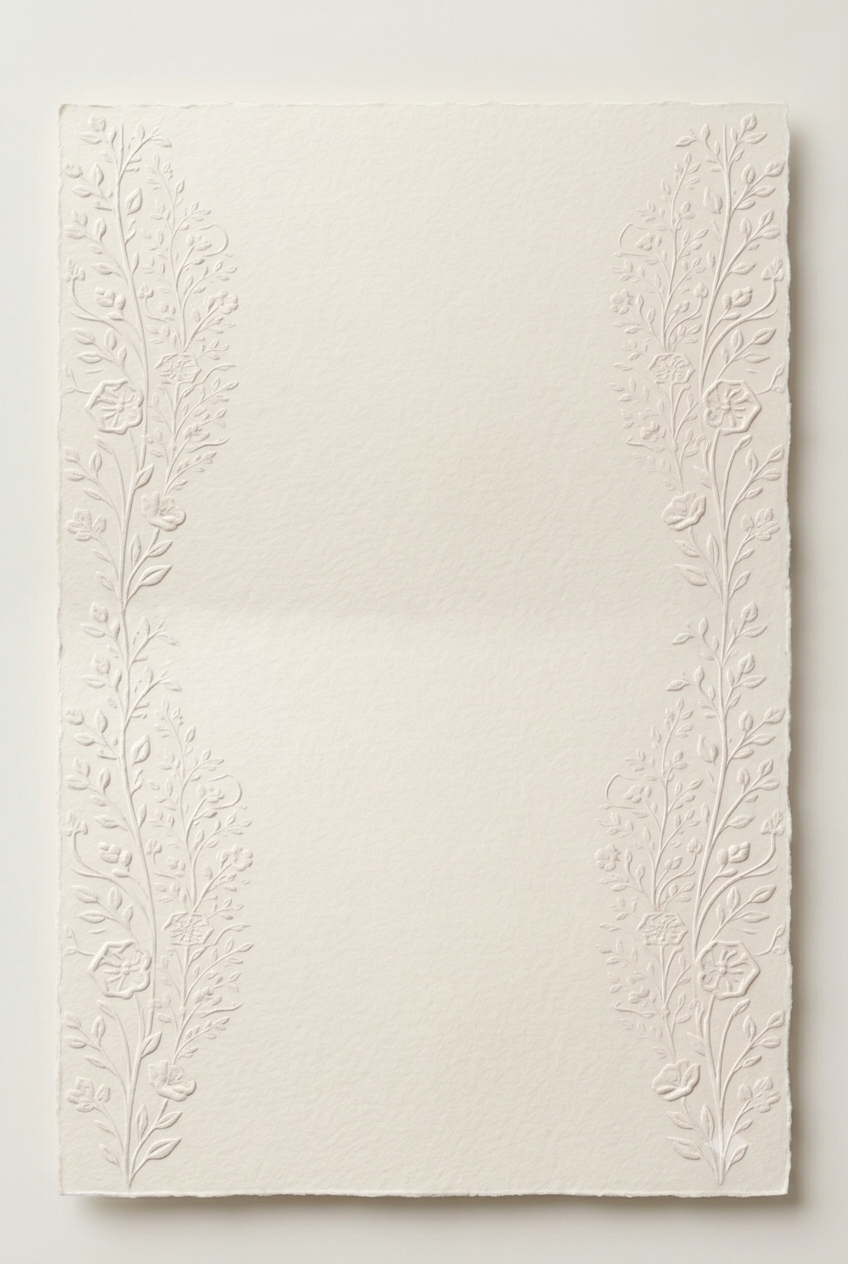
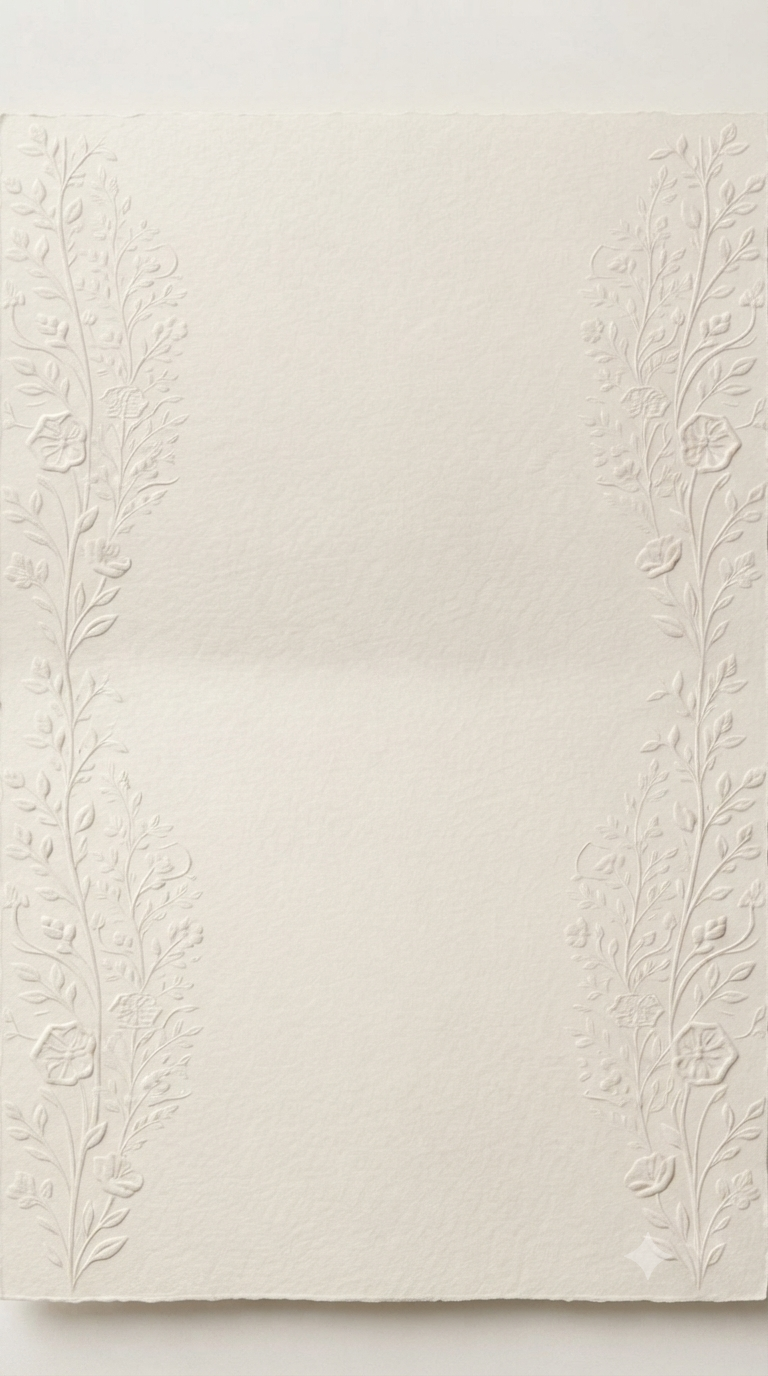
v2 rectif cart background

diff --git a/src/invitation/sections/VenueSection.tsx b/src/invitation/sections/VenueSection.tsx
@@ -52,10 +52,10 @@ export function VenueSection() {
           <div className={`info-reveal${inClass}`} style={{ animationDelay: `${BLOCKS_DELAY}ms` }}>
             <div className="flex items-center gap-1.5">
               <LocationIcon
-                className={`info-icon-glow${inClass} h-4 w-4 shrink-0 text-accent-strong`}
+                className={`info-icon-glow${inClass} h-4 w-4 shrink-0 font-semibold text-accent-strong`}
                 style={{ animationDelay: `${BLOCKS_DELAY}ms` }}
               />
-              <span className="font-sans text-label-2xs uppercase tracking-wide text-accent-strong">{lieu.label}</span>
+              <span className="font-sans text-label-2xs uppercase tracking-wide font-semibold text-accent-strong">{lieu.label}</span>
             </div>
             <p className="mt-1 font-accent text-sm leading-snug text-ink">{lieu.value}</p>
           </div>
@@ -71,20 +71,20 @@ export function VenueSection() {
                 <div>
                   <div className="flex items-center gap-1.5">
                     <CalendarIcon
-                      className={`info-icon-glow${inClass} h-4 w-4 shrink-0 text-accent-strong`}
+                      className={`info-icon-glow${inClass} h-4 w-4 shrink-0 font-semibold text-accent-strong`}
                       style={{ animationDelay: `${BLOCKS_DELAY + BLOCKS_STAGGER}ms` }}
                     />
-                    <span className="font-sans text-label-2xs uppercase tracking-wide text-accent-strong">{date.label}</span>
+                    <span className="font-sans text-label-2xs uppercase tracking-wide font-semibold text-accent-strong">{date.label}</span>
                   </div>
                   <p className="mt-1 font-accent text-sm leading-snug text-ink">{date.value}</p>
                 </div>
                 <div className="info-datetime-divider">
                   <div className="flex items-center gap-1.5">
                     <ClockIcon
-                      className={`info-icon-glow${inClass} h-4 w-4 shrink-0 text-accent-strong`}
+                      className={`info-icon-glow${inClass} h-4 w-4 shrink-0 font-semibold text-accent-strong`}
                       style={{ animationDelay: `${BLOCKS_DELAY + BLOCKS_STAGGER}ms` }}
                     />
-                    <span className="font-sans text-label-2xs uppercase tracking-wide text-accent-strong">{heure.label}</span>
+                    <span className="font-sans text-label-2xs uppercase tracking-wide font-semibold text-accent-strong">{heure.label}</span>
                   </div>
                   <p className="mt-1 font-accent text-sm leading-snug text-ink">{heure.value}</p>
                 </div>
@@ -102,25 +102,9 @@ export function VenueSection() {
                 className={`info-icon-glow${inClass} h-4 w-4 shrink-0 text-accent-strong`}
                 style={{ animationDelay: `${BLOCKS_DELAY + 2 * BLOCKS_STAGGER}ms` }}
               />
-              <span className="font-sans text-label-2xs uppercase tracking-wide text-accent-strong">{dressCode.label}</span>
+              <span className="font-sans text-label-2xs uppercase tracking-wide font-semibold text-accent-strong">{dressCode.label}</span>
             </div>
             <p className="mt-1 font-accent text-sm leading-snug text-ink">{dressCode.value}</p>
-          </div>
-
-          {/* Dîner — pleine largeur : phrase longue, doit pouvoir passer à la
-              ligne sans jamais toucher les floraux latéraux. */}
-          <div
-            className={`info-reveal${inClass}`}
-            style={{ animationDelay: `${BLOCKS_DELAY + 3 * BLOCKS_STAGGER}ms` }}
-          >
-            <div className="flex items-center gap-1.5">
-              <DinnerIcon
-                className={`info-icon-glow${inClass} h-4 w-4 shrink-0 text-accent-strong`}
-                style={{ animationDelay: `${BLOCKS_DELAY + 3 * BLOCKS_STAGGER}ms` }}
-              />
-              <span className="font-sans text-label-2xs uppercase tracking-wide text-accent-strong">{diner.label}</span>
-            </div>
-            <p className="mt-1 font-accent text-sm leading-snug text-ink">{diner.value}</p>
           </div>
 
           {/* Soirée */}
@@ -133,7 +117,7 @@ export function VenueSection() {
                 className={`info-icon-glow${inClass} h-4 w-4 shrink-0 text-accent-strong`}
                 style={{ animationDelay: `${BLOCKS_DELAY + 4 * BLOCKS_STAGGER}ms` }}
               />
-              <span className="font-sans text-label-2xs uppercase tracking-wide text-accent-strong">{soiree.label}</span>
+              <span className="font-sans text-label-2xs uppercase tracking-wide font-semibold text-accent-strong">{soiree.label}</span>
             </div>
             <p className="mt-1 font-accent text-sm leading-snug text-ink">{soiree.value}</p>
           </div>

diff --git a/src/invitation/sections/PhotoSection.tsx b/src/invitation/sections/PhotoSection.tsx
@@ -37,16 +37,12 @@ export function PhotoSection() {
     <PaperCard>
       <div ref={ref} className="flex flex-col items-center" style={{ width: '100%', boxSizing: 'border-box' }}>
 
-        {/* Photo — élément visuel principal de la carte. PaperCard réserve
-            px-[20%] py-[7%] (zone de sécurité texte) sur son conteneur ; la
-            photo en sort volontairement pour rester grande :
-            - largeur : 166.667% de la largeur de contenu disponible moins
-              24px — une identité qui annule exactement le padding horizontal
-              en pourcentage du parent (100% - 2×20% = 60% de contenu ; 60% ×
-              166.667% = 100% de la carte), quelle que soit la largeur réelle
-              de la carte, pour ne laisser qu'une marge fixe de 12px de chaque
-              côté par rapport aux fleurs embossées.
-            - marge supérieure : même principe pour le padding vertical.
+        {/* Photo — élément visuel principal de la carte. Largeur : 100% du
+            conteneur de contenu (même colonne que le verset/la traduction
+            ci-dessous, à l'intérieur de la zone sécurisée px-[20%] de
+            PaperCard) — la photo s'arrête au même niveau que le reste du
+            texte, jamais un débordement dans la zone florale.
+            - marge supérieure : compense le padding vertical du parent.
               PaperCard applique déjà 7% (soit 11.667% de notre largeur de
               contenu, puisque celle-ci vaut 60% de la largeur de la carte) ;
               `calc(-11.667% + clamp(20px, 5vw, 28px))` annule exactement
@@ -71,7 +67,7 @@ export function PhotoSection() {
           }
           transition={reducedMotion ? REDUCED_TRANSITION : { duration: PHOTO_DURATION, ease: EASE }}
           style={{
-            width: 'calc(166.667% - 24px)',
+            width: '100%',
             marginTop: 'calc(-11.667% + clamp(20px, 5vw, 28px))',
             display: 'block',
             borderRadius: '24px',
@@ -106,9 +102,8 @@ export function PhotoSection() {
           className="font-arabic text-center"
           style={{
             fontSize: 'clamp(1.025rem, 3.6vw, 1.205rem)',
-            lineHeight: 2.1,
+            lineHeight: 1.8,
             color: 'var(--color-ink)',
-            maxWidth: '90%',
             letterSpacing: '0.025em',
             marginTop: 16,
           }}
@@ -119,7 +114,7 @@ export function PhotoSection() {
         {/* Traduction française — statique. */}
         <p
           className="font-accent italic text-text-muted text-center"
-          style={{ fontSize: '0.9rem', lineHeight: 1.95, maxWidth: '86%', marginTop: 12 }}
+          style={{ fontSize: '0.9rem', lineHeight: 1.3, maxWidth: '86%', marginTop: 12 }}
         >
           « Et parmi Ses signes, Il a créé de vous, pour vous, des épouses afin que vous trouviez auprès d'elles la tranquillité. Et Il a mis entre vous affection et miséricorde. »
         </p>
@@ -133,7 +128,7 @@ export function PhotoSection() {
           Sourate Ar-Rûm (30:21)
         </span>
 
-        <CardDivider className="shrink-0 mt-4.5" />
+        <CardDivider className="shrink-0" />
       </div>
     </PaperCard>
   )

diff --git a/src/invitation/sections/TributeSection.tsx b/src/invitation/sections/TributeSection.tsx
@@ -26,7 +26,7 @@ export function TributeSection() {
   return (
     <PaperCard>
       <div
-        className="flex flex-col items-center gap-2.5 text-center"
+        className="flex flex-col items-center gap-1 text-center"
         style={{ boxSizing: 'border-box', paddingInline: '4px' }}
       >
         <CardSubtitle className={`trib-reveal${inClass}`}>Hommage</CardSubtitle>
@@ -89,7 +89,7 @@ export function TributeSection() {
             des lignes harmonieuses, jamais justifié. */}
         <div
           className={`trib-reveal${inClass}`}
-          style={{ animationDelay: `${PARAGRAPH_DELAY}ms`, marginTop: 18 }}
+          style={{ animationDelay: `${PARAGRAPH_DELAY}ms`, marginTop: 12 }}
         >
           <p
             className="font-accent italic font-medium text-ink-800"
@@ -115,9 +115,8 @@ export function TributeSection() {
             className="font-arabic"
             style={{
               fontSize: 'clamp(1.025rem, 3.6vw, 1.205rem)',
-              lineHeight: 2.1,
+              lineHeight: 1.5,
               color: 'var(--color-ink)',
-              maxWidth: '90%',
               letterSpacing: '0.025em',
               margin: '0 auto',
             }}
@@ -145,7 +144,7 @@ export function TributeSection() {
             conservée après la suppression de l'invocation finale. */}
         <span
           className={`trib-reveal${inClass} font-accent text-sm text-divider`}
-          style={{ animationDelay: `${END_ORNAMENT_DELAY}ms`, marginTop: 18 }}
+          style={{ animationDelay: `${END_ORNAMENT_DELAY}ms`, marginTop: 2 }}
           aria-hidden="true"
         >
           &#10022;

diff --git a/src/invitation/sections/CoverSection.tsx b/src/invitation/sections/CoverSection.tsx
@@ -272,7 +272,7 @@ export function CoverSection({ revealReady = false, onRevealComplete }: CoverSec
             {/* 2. Formule d'invitation — casse normale, douce, jamais de
                 capitales trackées (réservées aux labels UI, voir typography.css) */}
             <RevealItem index={1} active={revealReady} reducedMotion={reducedMotion}>
-              <p className="font-accent text-dusk-sky-text" style={{ fontSize: 'clamp(0.95rem, 3.4vw, 1.05rem)', maxWidth: '85%' }}>
+              <p className="font-semibold font-accent text-dusk-sky-text" style={{ fontSize: 'clamp(0.95rem, 3.4vw, 1.05rem)', maxWidth: '85%' }}>
                 Vous êtes invité(e)s au mariage de
               </p>
             </RevealItem>
@@ -300,7 +300,7 @@ export function CoverSection({ revealReady = false, onRevealComplete }: CoverSec
             {/* 8-9. Lieu */}
             <RevealItem index={4} active={revealReady} reducedMotion={reducedMotion} className="flex flex-col items-center gap-0.5">
               <span className="font-accent text-lg font-medium italic text-ink">À La Perle du Lac</span>
-              <span className="font-sans text-label-xs uppercase tracking-widest text-text-subtle">Tunis</span>
+              <span className=" font-semibold font-sans text-label-xs uppercase tracking-widest text-text-subtle">Tunis</span>
             </RevealItem>
 
             {/* 10-11. Divider, puis route France → Tunisie — juste au-dessus de la citation finale. */}

diff --git a/src/data/wedding.ts b/src/data/wedding.ts
@@ -43,12 +43,12 @@ export interface ProgramItem {
 export const programItems: ProgramItem[] = [
   {
     time: '17:30',
-    title: 'Douceur au coucher du soleil',
-    subtitle: 'Accueil au bord du lac autour d’un rafraîchissement, face au coucher du soleil.',
+    title: 'Douce arrivée',
+    subtitle: 'Un doux accueil face aux dernières lueurs du soleil.',
   },
   {
     time: '19:30',
-    title: 'Dîner sous le signe du partage',
+    title: 'Saveurs partagées',
     subtitle: 'Un dîner tunisien, délicatement sublimé d’une touche marocaine.',
   },
   {

diff --git a/src/styles/site-footer.css b/src/styles/site-footer.css
@@ -15,10 +15,10 @@
 .site-footer p {
   margin: 0;
   font-family: var(--font-accent);
-  font-style: italic;
   font-size: var(--text-xs);
   line-height: 1.7;
   color: var(--color-text-muted);
+  font-weight: 500;
 }
 
 /* Lien — contraste légèrement supérieur au texte simple ci-dessus, jamais un
@@ -35,6 +35,7 @@
   border-bottom: 1px solid color-mix(in srgb, var(--color-accent-strong) 45%, transparent);
   padding-bottom: 1px;
   transition: color 200ms ease-out, border-color 200ms ease-out;
+  font-weight: 600;
 }
 
 .site-footer a:hover,

diff --git a/src/invitation/InvitationPage.tsx b/src/invitation/InvitationPage.tsx
@@ -258,7 +258,7 @@ export function InvitationPage() {
       </main>
 
       <footer className="site-footer">
-        <p>Invitation conçue avec amour par la mariée</p>
+        <p>♡<span className="italic"> Invitation conçue avec amour par la mariée </span>♡</p>
 
         <a
           href="https://www.douaayazidi.com/"
